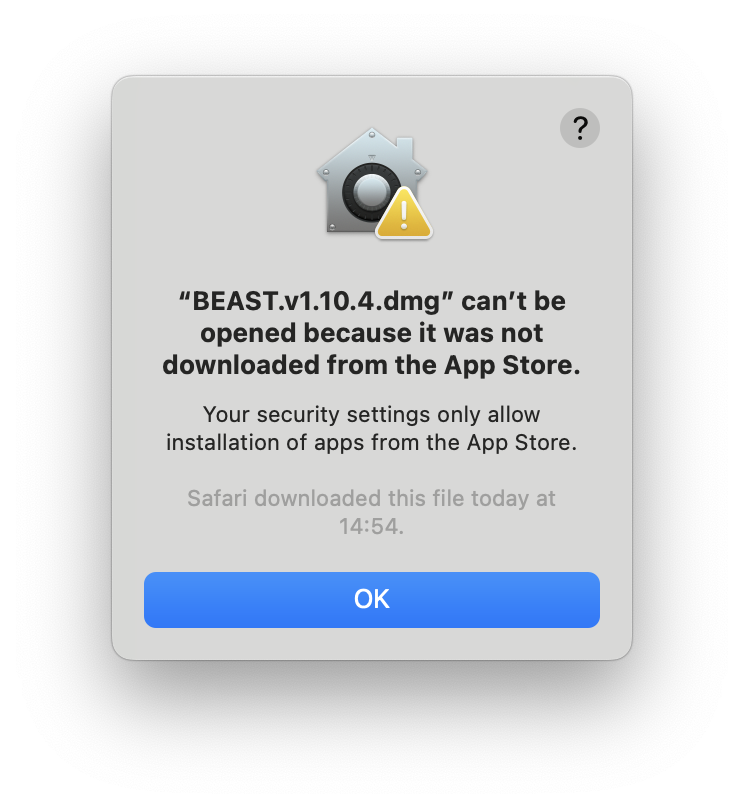
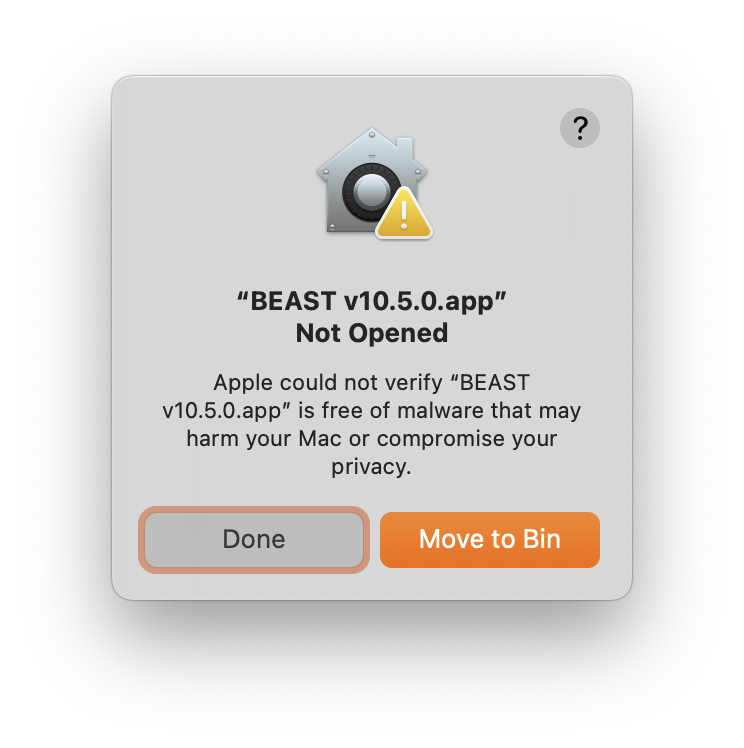
update beastdoc for new version of beast x

Changed region(s): [[0.1546, 0.1537, 0.8347, 0.8302], [0.7419, 0.0922, 0.8347, 0.2152], [0.1546, 0.0922, 0.2164, 0.123]]

diff --git a/pages/beast/installing/beast_install_on_mac.md b/pages/beast/installing/beast_install_on_mac.md
@@ -37,9 +37,15 @@ Double-clicking the disk image file will open a virtual 'disk' in a Finder windo
 
 When opening the downloaded disk image (`.dmg` file) or running any of the applications in the BEAST package for the first time you may see a security dialog box. This is Mac OS X's security  protecting your system from unknown software:
  
-{% include image.html file="installing/mac-security.png" indent="64px" width="320px" alt="mac security" caption="The Mac OS X security dialog. By default it only allows you to run software from developers registered with Apple. For more information about this, click the question mark button." %}
+{% include image.html file="installing/mac-security.png" indent="64px" width="320px" alt="mac security" caption="The Mac OS X security dialog. This prevents software from outside the App Store being run unless explicily overruled." %}
 
-Rather than double-clicking to open the disk image or to run the application for the first time, you can control-click (or right-click) on the application icon and select ```Open```. This will bring up a similar dialog box to the one about but this time it will have an ```Open``` button which will override the security for this application only. You will only need to do this the first time you open an application but you will need to do it individually for each of the applications in the BEAST package.
+For Mac OS X 15 (Sequoia) and later, you will need to allow the application to run by clicking "Done" and then going to `System Preferences` > `Security & Privacy` and clicking the `Open Anyway` button next to the message about BEAST. This will allow you to run the application. Unfortunately you will have to do this for each application in the BEAST package.
+
+{% include image.html file="installing/mac-security-2.png" indent="64px" width="320px" alt="mac security" caption="The security restrictions on running this software can be overruled in the Security & Privacy section of System Preferences." %}
+
+### Older Max OS X versions
+
+For versions of Mac OS X prior to Sequoia you may be able to use the following approach: Rather than double-clicking to open the application for the first time, you can control-click (or right-click) on the application icon and select ```Open```. This will bring up a similar dialog box to the one about but this time it will have an ```Open``` button which will override the security for this application only. You will only need to do this the first time you open an application but you will need to do it individually for each of the applications in the BEAST package.
 
 You can then drag the icons into your Dock if you want quick access to them.
 

diff --git a/pages/beast/beast_version_history.md b/pages/beast/beast_version_history.md
@@ -10,7 +10,7 @@ toc: false
 folder: beast
 ---
 
-### Version 10.5.0  released 9th July 2024
+### Version 10.5.0  released 1st July 2025
 
 - New Major Version - BEAST X v10.5.0
 
@@ -18,8 +18,10 @@ folder: beast
 
 #### New Features:
 
+BEAST X (v10.5.0) significantly advances the flexibility and scalability of evolutionary models supported. Novel clock and substitution models leverage: a large variety of evolutionary processes; discrete, continuous and mixed traits with missingness and measurement errors; and fast, gradient-informed integration techniques that rapidly traverse high-dimensional parameter spaces.
+
 #### Bug Fixes:
-> See [Issue List](https://github.com/beast-dev/beast-mcmc/issues) for full list.	
+> See [Issue List](https://github.com/beast-dev/beast-mcmc/issues?q=is%3Aissue%20state%3Aclosed) for full list.	
 
 ### Previous versions:
 ```
